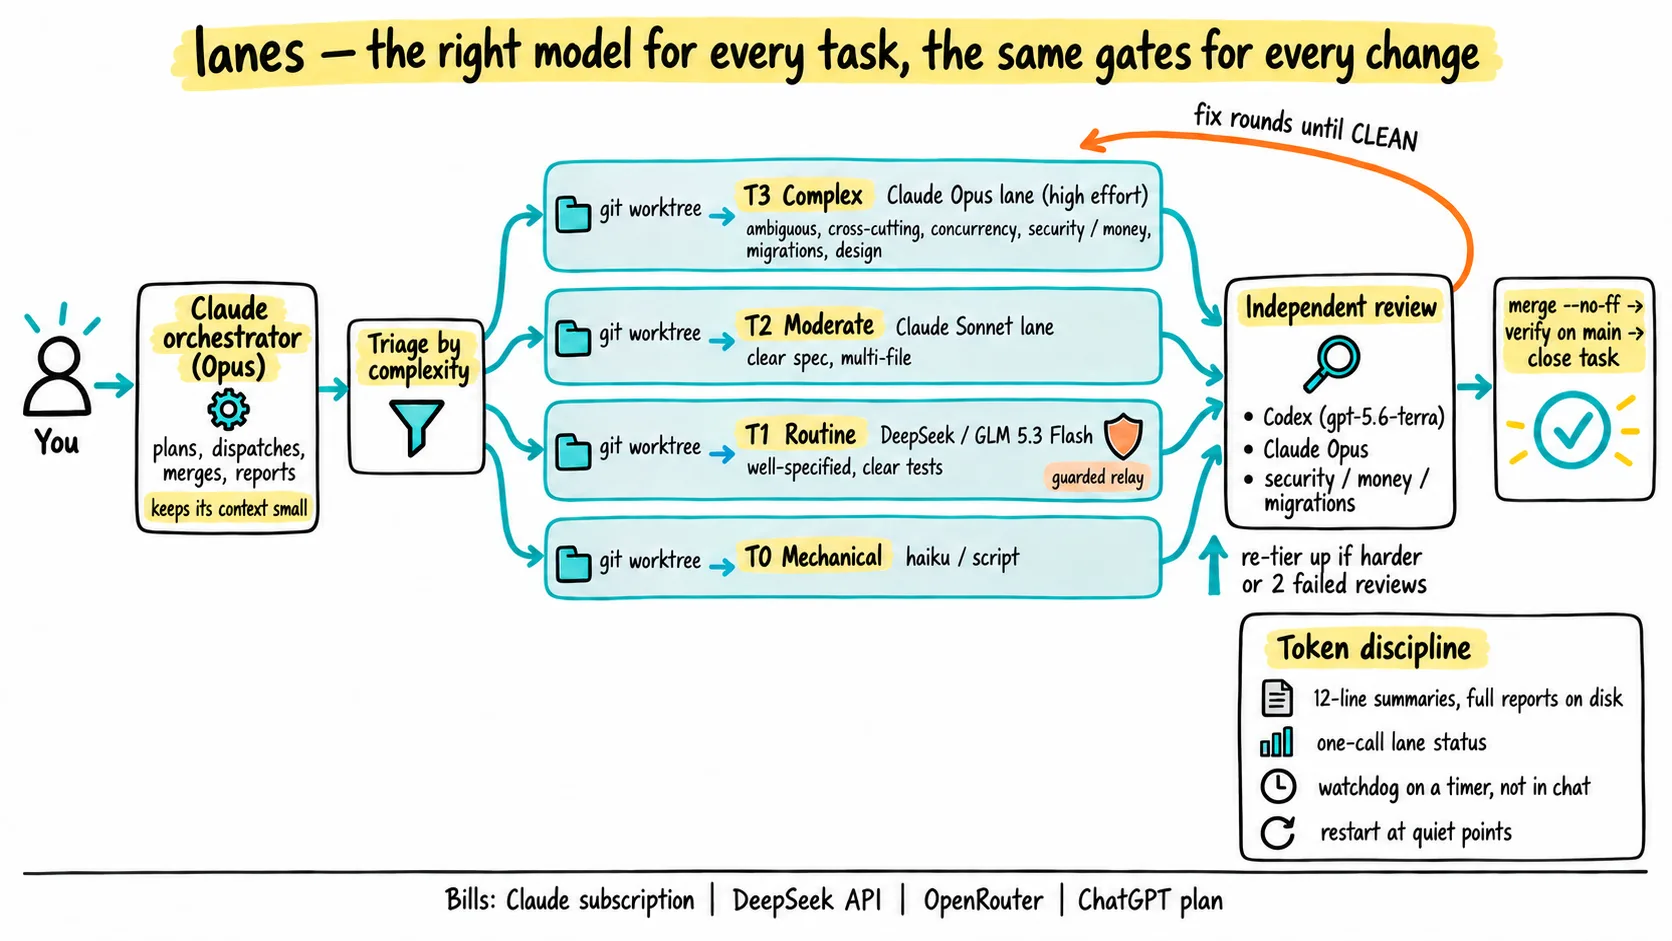
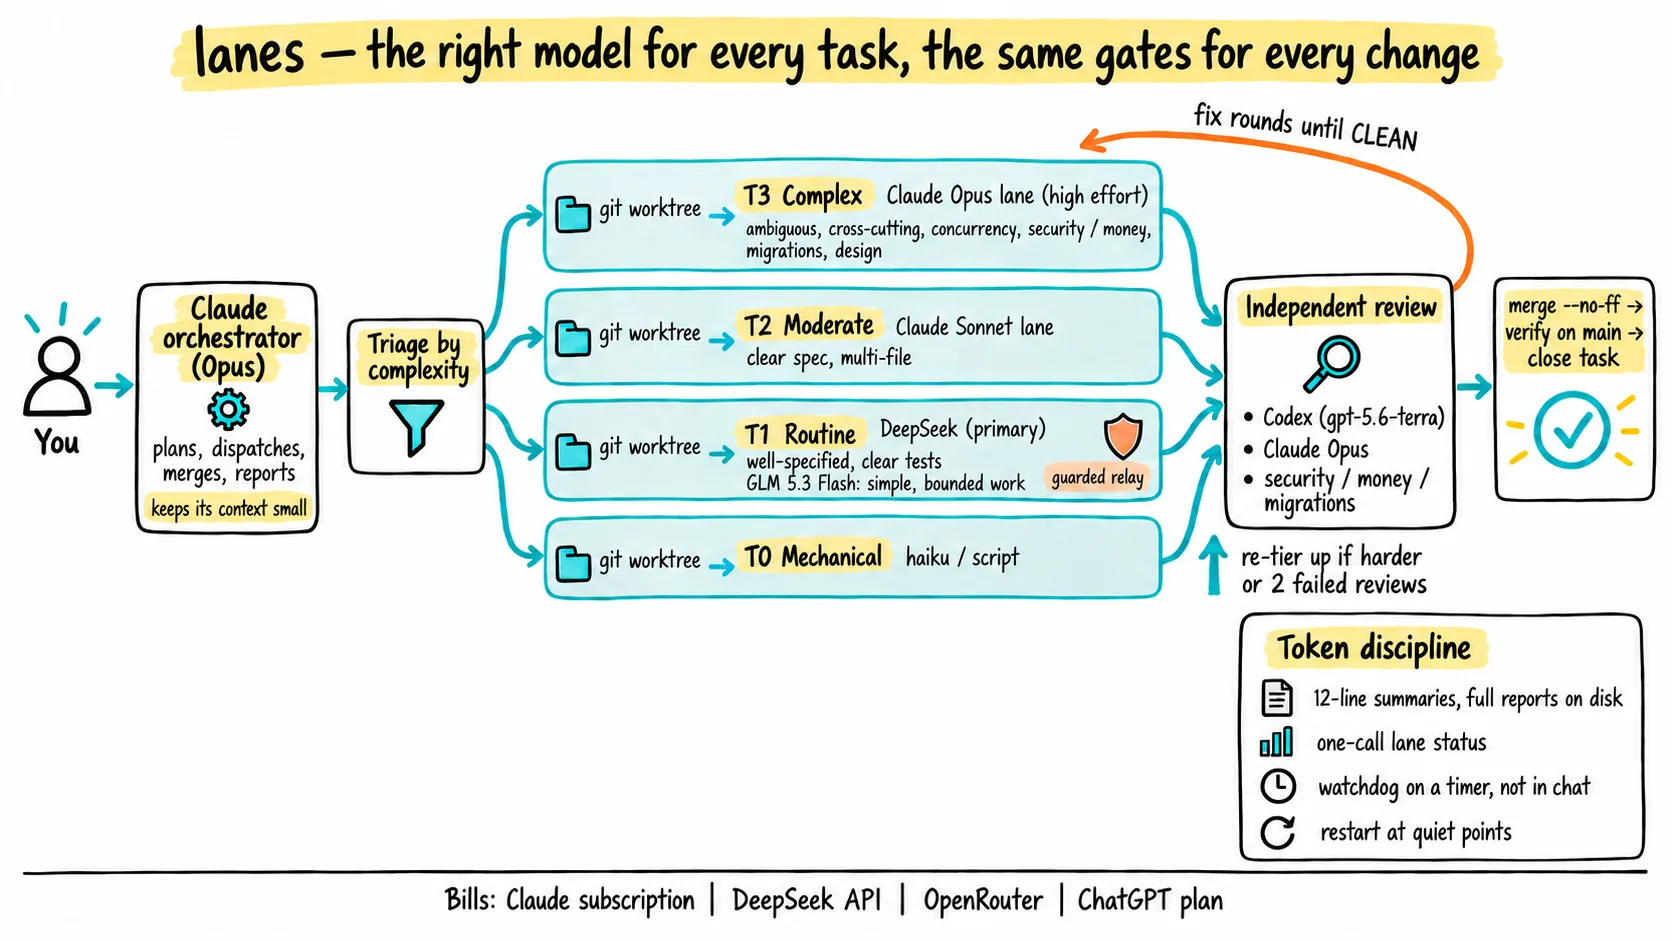
T1 routing: DeepSeek is the primary coder, GLM for simple bounded work
DeepSeek (deepseek-flash, thinking on) takes T1 routine work. GLM 5.3 Flash
takes tests, docs-with-code, mechanical refactors, huge-context reading, and
overflow when DeepSeek already has 2 jobs running. A failed T1 review switches
the next fix round to the other model before re-tiering. Track first-pass
review rates per model and revisit after about 10 tasks each.

Updates the skill tier table, relay agent descriptions, README, site copy,
alt text, and the infographic's T1 row.

Claude-Session: https://claude.ai/code/session_01ULmXkhqbZWY8sn69KquzPp

diff --git a/docs/index.html b/docs/index.html
@@ -4,7 +4,7 @@
 <meta charset="utf-8">
 <meta name="viewport" content="width=device-width, initial-scale=1">
 <title>lanes · orchestration harness for Claude Code</title>
-<meta name="description" content="lanes is a Claude Code skill that triages every task by complexity and runs your project in parallel git-worktree lanes: Opus for complex work, Sonnet for moderate, DeepSeek or GLM for routine, Codex for reviews.">
+<meta name="description" content="lanes is a Claude Code skill that triages every task by complexity and runs your project in parallel git-worktree lanes: Opus for complex work, Sonnet for moderate, DeepSeek for routine (GLM for simple, bounded jobs), Codex for reviews.">
 <meta property="og:title" content="lanes: a token-efficient orchestration harness for Claude Code">
 <meta property="og:description" content="The right model for every task. The same gates for every change.">
 <meta property="og:type" content="website">
@@ -315,14 +315,14 @@ footer p{margin:0}
 
     <figure class="info" id="info">
       <img src="lanes-infographic.webp" width="1672" height="941" loading="lazy" decoding="async"
-        alt="How lanes works: a Claude Opus orchestrator triages each task by complexity into git-worktree lanes: T3 complex work to a Claude Opus lane, T2 moderate to a Claude Sonnet lane, T1 routine to DeepSeek or GLM behind a guarded relay, T0 mechanical to haiku or a script. Every lane flows into an independent review (Codex, or Claude Opus for security, money and migrations), loops through fix rounds until clean, re-tiers upward if needed, then merges and is verified on main.">
+        alt="How lanes works: a Claude Opus orchestrator triages each task by complexity into git-worktree lanes: T3 complex work to a Claude Opus lane, T2 moderate to a Claude Sonnet lane, T1 routine to DeepSeek as the primary coder, with GLM 5.3 Flash for simple, bounded work, behind a guarded relay, T0 mechanical to haiku or a script. Every lane flows into an independent review (Codex, or Claude Opus for security, money and migrations), loops through fix rounds until clean, re-tiers upward if needed, then merges and is verified on main.">
       <p class="missing">Infographic: lanes-infographic.png (see the step list below for the same flow).</p>
       <figcaption><span>The lanes flow, end to end.</span><a href="lanes-infographic.png">Open full size</a></figcaption>
     </figure>
 
     <ul class="pillars">
       <li style="--c:var(--work)"><h3>Lanes are worktrees</h3><p>Each lane is a git worktree with one agent in it. Lanes run in parallel, up to a cap you choose (default 6 concurrent agents, reviews included).</p></li>
-      <li style="--c:var(--review)"><h3>Triage by complexity</h3><p>Every task gets a tier before dispatch, and the tier picks the model from the start: Opus for complex work, Sonnet for moderate work, DeepSeek or GLM for routine work, and Codex for routine reviews. Tasks only ever move up a tier.</p></li>
+      <li style="--c:var(--review)"><h3>Triage by complexity</h3><p>Every task gets a tier before dispatch, and the tier picks the model from the start: Opus for complex work, Sonnet for moderate work, DeepSeek for routine work (GLM for simple, bounded jobs), and Codex for routine reviews. Tasks only ever move up a tier.</p></li>
       <li style="--c:var(--guard)"><h3>Gates don't change</h3><p>Every change gets an independent review before merge, the author never reviews its own work, and merges are verified on the main branch.</p></li>
     </ul>
 
@@ -354,7 +354,7 @@ footer p{margin:0}
   <div class="wrap">
     <p class="kicker"><b>02</b> Routing</p>
     <h2 id="routing-title">Triage first. The tier picks the model.</h2>
-    <p class="intro">Every task is triaged by complexity before dispatch, so hard problems go straight to Opus and only routine work goes to the cheap models. Each tier bills to an account you already hold. Keys stay in your shell rc; the skill never stores them.</p>
+    <p class="intro">Every task is triaged by complexity before dispatch, so hard problems go straight to Opus and only routine work goes to the cheap models (DeepSeek first, GLM for simple, bounded jobs). Each tier bills to an account you already hold. Keys stay in your shell rc; the skill never stores them.</p>
     <table class="routes" aria-describedby="routes-note">
       <thead><tr><th scope="col">Tier / role</th><th scope="col">Lane</th><th scope="col">Billed to</th></tr></thead>
       <tbody>
@@ -370,7 +370,7 @@ footer p{margin:0}
         </tr>
         <tr class="r-work">
           <th scope="row"><span class="who">T1 Routine</span>Well-specified, local, with clear tests: small features, fix rounds, refactors, test gaps</th>
-          <td data-label="Lane"><span class="model">DeepSeek</span> (<code>deepseek-flash</code>) or <span class="model">GLM 5.3 Flash</span> (<code>z-ai/glm-5.3-flash</code> via OpenRouter)</td>
+          <td data-label="Lane"><span class="model">DeepSeek</span> (<code>deepseek-flash</code>, thinking on) as the primary coder; <span class="model">GLM 5.3 Flash</span> (<code>z-ai/glm-5.3-flash</code> via OpenRouter) for simple, bounded work</td>
           <td data-label="Billed to"><span class="pill">your DeepSeek / OpenRouter API keys</span></td>
         </tr>
         <tr class="r-work">
@@ -395,7 +395,7 @@ footer p{margin:0}
         </tr>
       </tbody>
     </table>
-    <p class="routes-note" id="routes-note">Tasks only ever move <b>up</b> a tier: when a lane reports a task is harder or riskier than triaged, or after two failed reviews at the current tier. Model overrides: <code>DEEPSEEK_MODEL</code>, <code>GLM_MODEL</code>, <code>CODEX_MODEL</code>.</p>
+    <p class="routes-note" id="routes-note">Tasks only ever move <b>up</b> a tier: when a lane reports a task is harder or riskier than triaged, or after two failed reviews at the current tier. GLM's T1 share is tests, docs-with-code, mechanical refactors, huge-context reading, and overflow when DeepSeek already has 2 jobs running. When a T1 review fails, the next fix round switches to the other model before the task moves up a tier. Track first-pass review rates per model and revisit the split after about 10 tasks each. Model overrides: <code>DEEPSEEK_MODEL</code>, <code>GLM_MODEL</code>, <code>CODEX_MODEL</code>.</p>
     <ul class="gates">
       <li><strong>Review before merge</strong>Every change from any model gets an independent review. Fix rounds loop until CLEAN.</li>
       <li><strong>Workers stay in worktrees</strong>DeepSeek and GLM never run in a checkout holding <code>.env</code> or secrets.</li>

diff --git a/SKILL.md b/SKILL.md
@@ -1,6 +1,6 @@
 ---
 name: lanes
-description: Token-efficient multi-lane orchestration for Claude Code. Use it to start or resume work on an existing (possibly unfinished) project, run parallel worktree lanes, triage each task by complexity (Opus for complex work from the start, Sonnet for moderate, DeepSeek/GLM for routine) and route reviews to Codex, and report status. Triggers: "/lanes", "lanes start", "resume the lanes", "lane update", "lane update all", "pause lanes", "set up the lanes harness".
+description: Token-efficient multi-lane orchestration for Claude Code. Use it to start or resume work on an existing (possibly unfinished) project, run parallel worktree lanes, triage each task by complexity (Opus for complex work from the start, Sonnet for moderate, DeepSeek for routine with GLM for simple bounded work) and route reviews to Codex, and report status. Triggers: "/lanes", "lanes start", "resume the lanes", "lane update", "lane update all", "pause lanes", "set up the lanes harness".
 ---
 
 # Lanes: orchestration harness
@@ -31,9 +31,10 @@ Before dispatching, give every task a **tier**, and record it in the tracker and
 |---|---|---|---|
 | **T3 Complex** (high reasoning) | Ambiguous or underspecified; cross-cutting or architectural; concurrency, races, locks or state machines; authority, security, money or privacy logic; schema migrations or shared contracts; debugging an unknown root cause; live ops or deploys; design and UX; hard to reverse | **`opus-lane`** (Opus, high effort) | Opus for authority, security, money or migrations; otherwise Codex |
 | **T2 Moderate** | Clear spec, but spans several files or packages or needs design judgment; unfamiliar area of the codebase; moderate blast radius | **`sonnet-lane`** (Sonnet) | Codex |
-| **T1 Routine** | Well-specified, local change with clear acceptance tests: small features, fix rounds from a review, refactors, test gaps, CI or scripts, docs-with-code | **`deepseek`** or **`glm`** (or `model-relay`) | Codex |
+| **T1 Routine** | Well-specified, local change with clear acceptance tests: small features, fix rounds from a review, refactors, test gaps, CI or scripts, docs-with-code | **`deepseek`** (primary); **`glm`** only for simple, bounded work (or `model-relay`) | Codex |
 | **T0 Mechanical** | Sweeps, renames, status or evidence gathering | haiku or a script | none, or spot-check |
 
+- **T1 model choice:** DeepSeek (`deepseek-flash`, thinking mode on, which is DeepSeek's default) is the primary T1 coder. GLM 5.3 Flash takes only simple, bounded work: tests, docs-with-code, mechanical refactors, reading a huge context, and overflow when DeepSeek already has 2 jobs running. When a T1 review fails, the next fix round switches to the other model before the task moves up to T2 or T3. Record each model's first-pass review result in the project's memory, and revisit the split after about 10 tasks each. Why: vendor-reported DeepSWE is 74.2 for DeepSeek-V4.1-Flash (Terminal-Bench 30) against 63.4 for GLM-5.3-Flash. DeepSeek thinking tokens bill as output ($0.60/M off-peak, $1.20/M peak), so a typical DeepSeek lane job costs about $0.04–0.19 off-peak. GLM's thinking cannot be disabled.
 - **Re-tier upward:** re-tier as soon as a lane reports the task is harder or riskier than triaged, or after two failed reviews at the current tier. Never downgrade a task mid-flight.
 - **Fix rounds:** they usually stay with the author's tier. A fix round for T3 code may go to T1 when the review findings are precise and local.
 - **Review before merge:** every change gets an independent review, and the reviewer is never the author. Fix rounds loop until the review is CLEAN.
@@ -47,8 +48,8 @@ Before dispatching, give every task a **tier**, and record it in the tracker and
 - **Registry:** add or replace the lane's row in `$S/lanes.tsv`: lane, agent, task, worktree, relay job.
 - **Brief:** start from `$K/rules/brief-template.md` and keep it short. It must name the worktree path, the task id, the acceptance checks and the tests. For Claude agents, reference `$K/rules/LANE_RULES.md`. For DeepSeek and GLM, paste its contents, since they cannot see this skill.
 - **T3 and T2 lanes:** `Agent` with `subagent_type: opus-lane` (T3) or `sonnet-lane` (T2). Until Claude Code restarts after install, use a plain `Agent` with model opus or sonnet.
-- **T1 lanes (DeepSeek or GLM), preferred from the orchestrator:** Bash with `run_in_background: true`:
-  `cd <worktree> && RELAY_WAIT_S=6000 model-relay deepseek < $S/lanes/<lane>/brief.md` (or `glm`). It costs no Claude tokens, and you are notified on completion. If the output says STILL RUNNING, run `model-relay --wait <job>`.
+- **T1 lanes (DeepSeek, or GLM for simple bounded work), preferred from the orchestrator:** Bash with `run_in_background: true`:
+  `cd <worktree> && RELAY_WAIT_S=6000 model-relay deepseek < $S/lanes/<lane>/brief.md` (or `glm`, per the T1 model choice in §2). It costs no Claude tokens, and you are notified on completion. If the output says STILL RUNNING, run `model-relay --wait <job>`.
 - **Codex review, preferred from the orchestrator:** Bash with `run_in_background: true`:
   `cd <worktree> && RELAY_WAIT_S=6000 codex-review <base-ref> < checklist.md`. The checklist is 3–10 task-specific lines, authority first.
 - **Subagents** (`deepseek`, `glm`, `codex`) are guarded haiku relays. Use them when a Task-tool call is more convenient. Give them the worktree path and the full brief or checklist.

diff --git a/README.md b/README.md
@@ -2,13 +2,13 @@
 
 `lanes` is a Claude Code skill that turns one session into an orchestrator. It audits a project, even one left half-finished, plans the remaining work, and runs it in parallel **lanes**, each lane being a git worktree with one agent working in it.
 
-Every task is **triaged by complexity before dispatch**. The tier picks the model from the start: hard problems go straight to Opus, and only routine work goes to the cheap models.
+Every task is **triaged by complexity before dispatch**. The tier picks the model from the start: hard problems go straight to Opus, and only routine work goes to the cheap models (DeepSeek first, GLM for simple, bounded jobs).
 
 | Tier | What it looks like | Dev lane | Billed to |
 |---|---|---|---|
 | **T3 Complex** | Ambiguous or cross-cutting work; concurrency or state machines; authority, security or money logic; migrations and contracts; unknown-root-cause debugging; live ops; design | **Claude Opus** (`opus-lane`, high effort) | your Claude subscription |
 | **T2 Moderate** | Clear spec, but multi-file or needs design judgment | **Claude Sonnet** (`sonnet-lane`) | your Claude subscription |
-| **T1 Routine** | Well-specified, local, with clear tests: small features, fix rounds, refactors, test gaps | **DeepSeek** (`deepseek-flash`) or **GLM 5.3 Flash** (`z-ai/glm-5.3-flash` via OpenRouter) | your DeepSeek / OpenRouter API keys |
+| **T1 Routine** | Well-specified, local, with clear tests: small features, fix rounds, refactors, test gaps | **DeepSeek** (`deepseek-flash`, thinking on) as the primary coder; **GLM 5.3 Flash** (`z-ai/glm-5.3-flash` via OpenRouter) for simple, bounded work | your DeepSeek / OpenRouter API keys |
 | **T0 Mechanical** | Sweeps, status, evidence | haiku or a script | your Claude subscription |
 
 **Reviews:**
@@ -16,9 +16,11 @@ Every task is **triaged by complexity before dispatch**. The tier picks the mode
 - **Claude Opus** gives the first review of authority, security, money or migration code.
 - **Orchestration and merges** run on Claude Opus.
 
+**T1 split:** DeepSeek is the primary T1 coder. GLM 5.3 Flash takes only simple, bounded work (tests, docs-with-code, mechanical refactors, huge-context reading) and overflow when DeepSeek already has 2 jobs running. When a T1 review fails, the next fix round switches to the other model before the task moves up a tier. Track first-pass review rates per model and revisit the split after about 10 tasks each. Why: vendor-reported DeepSWE is 74.2 for DeepSeek-V4.1-Flash (Terminal-Bench 30) against 63.4 for GLM-5.3-Flash. DeepSeek bills thinking tokens as output ($0.60/M off-peak, $1.20/M peak), so a typical lane job costs about $0.04–0.19 off-peak; GLM's thinking cannot be disabled.
+
 **Re-tiering:** a task only ever moves *up*. That happens when a lane reports it's harder or riskier than triaged, or after two failed reviews at the current tier.
 
-![How lanes works: a Claude Opus orchestrator triages each task by complexity into git-worktree lanes: T3 complex work to a Claude Opus lane, T2 moderate to a Claude Sonnet lane, T1 routine to DeepSeek or GLM behind a guarded relay, T0 mechanical to haiku or a script. Every lane flows into an independent review (Codex, or Claude Opus for security, money and migrations), loops through fix rounds until clean, re-tiers upward if needed, then merges and is verified on main.](docs/lanes-infographic.png)
+![How lanes works: a Claude Opus orchestrator triages each task by complexity into git-worktree lanes: T3 complex work to a Claude Opus lane, T2 moderate to a Claude Sonnet lane, T1 routine to DeepSeek as the primary coder, with GLM 5.3 Flash for simple, bounded work, behind a guarded relay, T0 mechanical to haiku or a script. Every lane flows into an independent review (Codex, or Claude Opus for security, money and migrations), loops through fix rounds until clean, re-tiers upward if needed, then merges and is verified on main.](docs/lanes-infographic.png)
 
 The quality gates don't change. Every change gets an independent review before merge, the author never reviews its own work, and merges are verified on the main branch.
 

diff --git a/agents/glm.md b/agents/glm.md
@@ -1,6 +1,6 @@
 ---
 name: glm
-description: Hands a well-scoped coding task (implement, refactor, write tests, fix a bug) to GLM 5.3 Flash via OpenRouter (billed to the owner's OpenRouter key, not the Claude subscription). GLM works in the named worktree with file tools and full shell access; long tasks are supported. Give it one self-contained task naming the worktree path, files, and acceptance checks. Never give it secrets, credentials, CRM exports, or contact data.
+description: Hands a well-scoped coding task (implement, refactor, write tests, fix a bug) to GLM 5.3 Flash via OpenRouter (billed to the owner's OpenRouter key, not the Claude subscription). Use it only for simple, bounded work (tests, docs-with-code, mechanical refactors, huge-context reading) or as overflow when DeepSeek already has 2 jobs running; DeepSeek is the primary T1 coder. GLM works in the named worktree with file tools and full shell access; long tasks are supported. Give it one self-contained task naming the worktree path, files, and acceptance checks. Never give it secrets, credentials, CRM exports, or contact data.
 model: haiku
 tools: Bash
 color: green

diff --git a/agents/deepseek.md b/agents/deepseek.md
@@ -1,6 +1,6 @@
 ---
 name: deepseek
-description: Hands a well-scoped coding task (implement, refactor, write tests, fix a bug) to DeepSeek Flash (billed to the owner's DeepSeek API account, not the Claude subscription). DeepSeek works in the named worktree with file tools and full shell access; long tasks are supported. Give it one self-contained task naming the worktree path, files, and acceptance checks. Never give it secrets, credentials, CRM exports, or contact data.
+description: Hands a well-scoped coding task (implement, refactor, write tests, fix a bug) to DeepSeek Flash (billed to the owner's DeepSeek API account, not the Claude subscription). DeepSeek is the primary coder for T1 routine tasks. DeepSeek works in the named worktree with file tools and full shell access; long tasks are supported. Give it one self-contained task naming the worktree path, files, and acceptance checks. Never give it secrets, credentials, CRM exports, or contact data.
 model: haiku
 tools: Bash
 color: cyan
